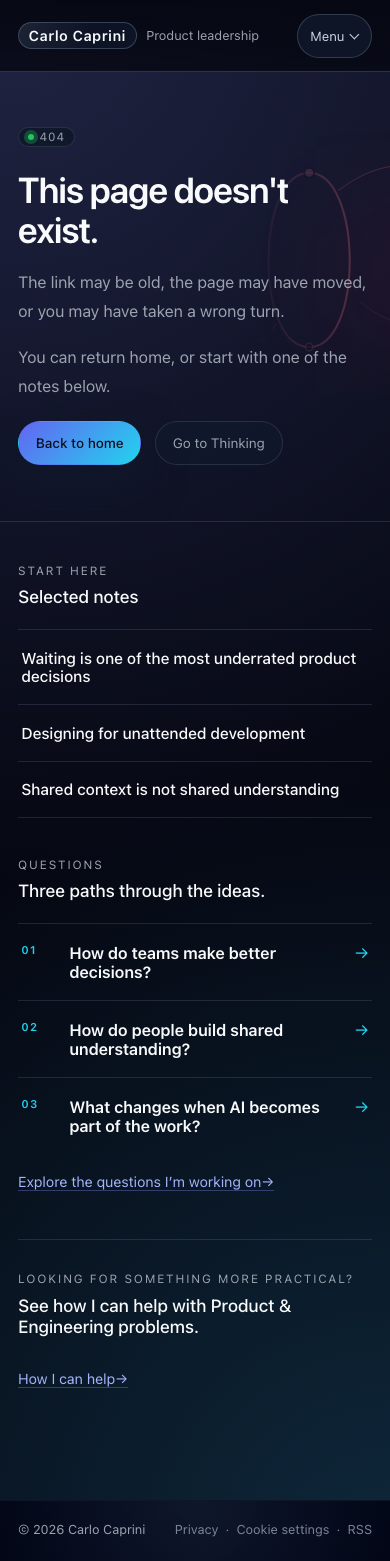
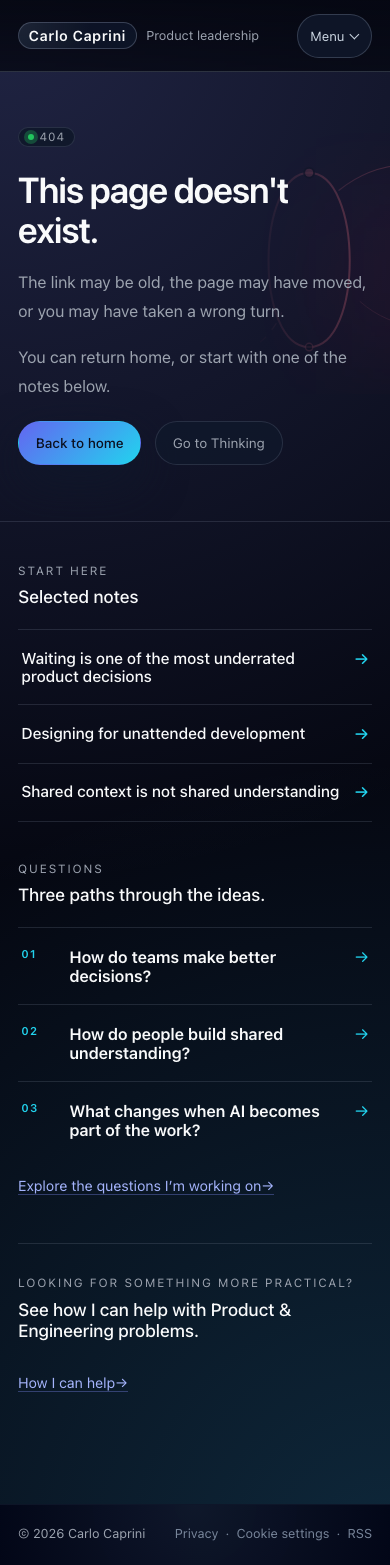
Clarify 404 Start Here links

diff --git a/_layouts/not_found.html b/_layouts/not_found.html
@@ -52,7 +52,10 @@ layout: default
             {% assign note = site.pages | where: "url", item.url | first %}
             {% if note %}
             <li>
-              <a href="{{ note.url | relative_url }}" data-analytics-event="note_open" data-analytics-note-id="{{ note.url | escape }}" data-analytics-link-context="not_found_start_here">{{ note.title }}</a>
+              <a href="{{ note.url | relative_url }}" data-analytics-event="note_open" data-analytics-note-id="{{ note.url | escape }}" data-analytics-link-context="not_found_start_here">
+                <span>{{ note.title }}</span>
+                <span class="question-path-arrow not-found-note-arrow" aria-hidden="true">→</span>
+              </a>
             </li>
             {% endif %}
           {% endfor %}

diff --git a/tests/browser/not-found.spec.js b/tests/browser/not-found.spec.js
@@ -54,6 +54,8 @@ test("custom 404 output preserves the site shell and focused recovery hierarchy"
   await expect(noteLinks).toHaveCount(3);
   expect(await noteLinks.evaluateAll((links) => links.map((link) => link.getAttribute("href"))))
     .toEqual(startHereUrls);
+  await expect(page.locator(".not-found-notes .not-found-note-arrow")).toHaveCount(3);
+  await expect(page.locator(".not-found-notes .not-found-note-arrow").first()).toHaveAttribute("aria-hidden", "true");
   await expect(page.locator(".not-found-start .selected-note-summary, .not-found-start .section-description")).toHaveCount(0);
   await expect(page.locator('.not-found-start [data-analytics-event="collection_open"]')).toHaveCount(0);
 

diff --git a/_includes/styles/not-found.css b/_includes/styles/not-found.css
@@ -93,6 +93,20 @@
   padding-bottom: 1.18rem;
 }
 
+.not-found-compact-list a {
+  display: grid;
+  grid-template-columns: minmax(0, 1fr) auto;
+  gap: 0.75rem;
+  align-items: start;
+  transition: padding 180ms ease, background-color 180ms ease;
+}
+
+.not-found-compact-list a:hover {
+  padding-right: 0.55rem;
+  padding-left: 0.55rem;
+  background: linear-gradient(90deg, var(--brand-accent-soft), transparent 72%);
+}
+
 .not-found-question-list .question-path-item a {
   grid-template-columns: 2.25rem minmax(0, 1fr) auto;
   gap: 0.75rem;
